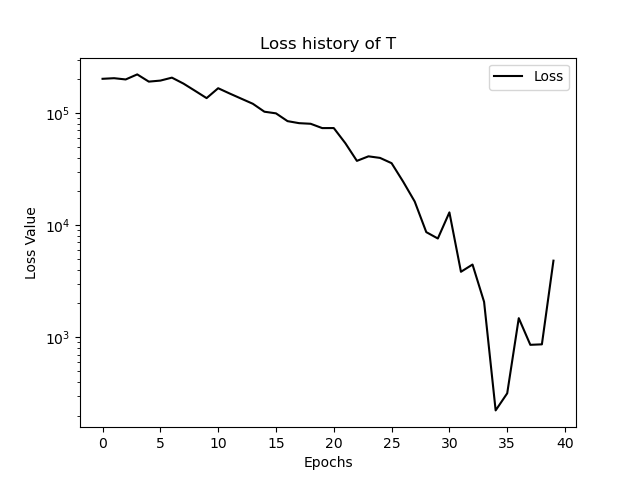
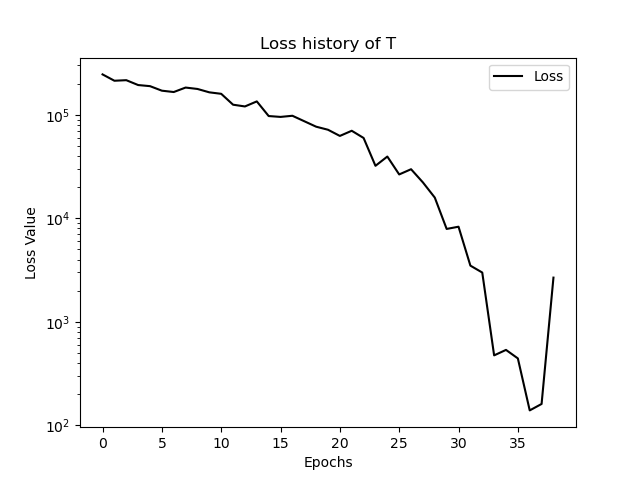
almost finish reconstructing

diff --git a/FNN/train.py b/FNN/train.py
@@ -6,50 +6,34 @@ Train all fields by FNN model
 Xia, S      24.12.23    Simpop.cn   v3.x
 """
 
-# --------------- import libraries ----------------------
+# -----------------------------------------------------------------------------
 import torch
-import numpy as np
 
 from pathlib import Path
 
-from Common.idxList     import idxList, numOfAllCases
 from Common.Regression  import Regression
 from Common.FSimDataset import FSimDataset
 
-def train(numOfEpochs:int=5)->bool:
+# -----------------------------------------------------------------------------
+def train(numOfEpochs:int=5, fields:list=["T"], trainSet:list=["C001"] )->bool:
+  """
+  Train the FNN model by a give trainset, in which some cases field included.
+  """
   iSuccess = False
 
-  varName = "P" # for pressure field
+  varName = "P"
 
-  # ----------------- 分割并确定训练数据表、测试数据表 ----------------------
-  # split the data, 49 = 40 + 9
-  ratioTest = 0.2
-
-  sizeOfTestSet = np.int64(numOfAllCases * ratioTest)
-
-  # 42 是随机种子，其它整数也可以
-  np.random.seed(42)
-  permut = np.random.permutation(numOfAllCases)
-
-  listTestCase = []
-  for i in permut[:sizeOfTestSet]:
-    theCase = "C" + "%03d"%idxList[i]
-    listTestCase.append(theCase)
-
-  listTrainCase = []
-  for i in permut[sizeOfTestSet:]:
-    theCase = "C" + "%03d"%idxList[i]
-    listTrainCase.append(theCase)
-
-  # ------------------ 数据类的初始化 ---------------------
+  #----------------------------------------------------------------------------
+  # 数据类的初始化
   filePathH5 = Path("../FSCases/FSHDF/MatrixData.h5")
   #aLive = filePathH5.exists()
   #print(aLive)
 
-  fsDataset_train = FSimDataset(filePathH5, listTrainCase, varName)
+  fsDataset_train = FSimDataset(filePathH5, trainSet, fields[0])
 
-  # ------------ 生成一个回归模型对象，并执行训练 ----------------
-  R = Regression(varName)
+  #----------------------------------------------------------------------------
+  # 生成一个回归模型对象，并执行训练
+  R = Regression(fields[0])
 
   # train the model
   epochs = numOfEpochs
@@ -60,19 +44,20 @@ def train(numOfEpochs:int=5)->bool:
       pass
     pass
 
-  # ---------- 训练完毕，绘制损失函数历史 ----------------------
+  #----------------------------------------------------------------------------
+  # 训练完毕，绘制损失函数历史
   DirPNG = Path("./Pics")
   R.saveLossHistory2PNG(DirPNG)
 
   # ------------- 预测，并与测试集比较 -------------------------
-  fsDataset_test = FSimDataset(filePathH5, listTestCase, varName)
+  #fsDataset_test = FSimDataset(filePathH5, listTestCase, varName)
 
   # for C034
-  inp, _, coords = fsDataset_test[0]
+  #inp, _, coords = fsDataset_test[0]
 
   # 1-先预测数据，2-再写到 HDF5 文件中
   # 坐标是可选输入数据
-  R.write2HDF(inp, Path("./fnn.h5"), coords=coords)
+  #R.write2HDF(inp, Path("./fnn.h5"), coords=coords)
 
   iSuccess = True
   return iSuccess

diff --git a/FNN/FNN_main.py b/FNN/FNN_main.py
@@ -14,7 +14,7 @@ import h5py
 
 from Common.CaseSet import CaseSet
 
-#from train import train
+from train import train
 
 #------------------------------------------------------------------------------
 # case names list of train set and test set
@@ -31,7 +31,8 @@ h5.close()
 #------------------------------------------------------------------------------
 # train the fields one has assigned, which must belong in ["P", "T", "U", "V", "W"]
 
-#iSuccess = train( numOfEpochs=1 )
+varfiels = ["T"]
+iSuccess = train( numOfEpochs=1, fields=varfiels , trainSet=trnSet )
 #print("Train Pres Successed? ", iSuccess)
 
 #------------------------------------------------------------------------------
